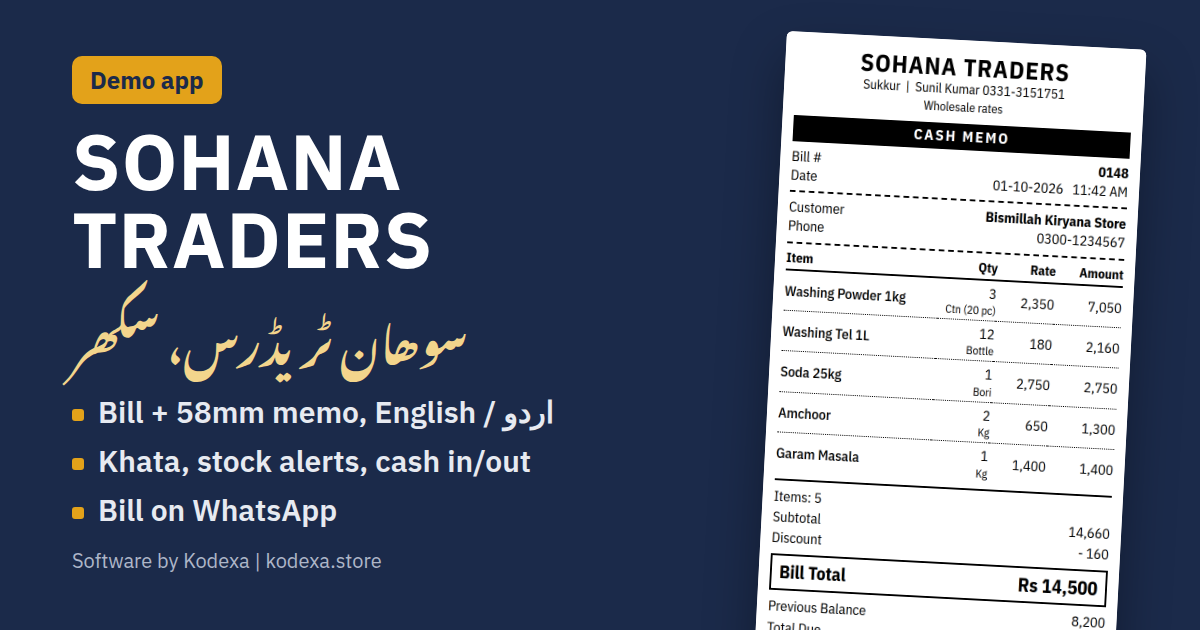
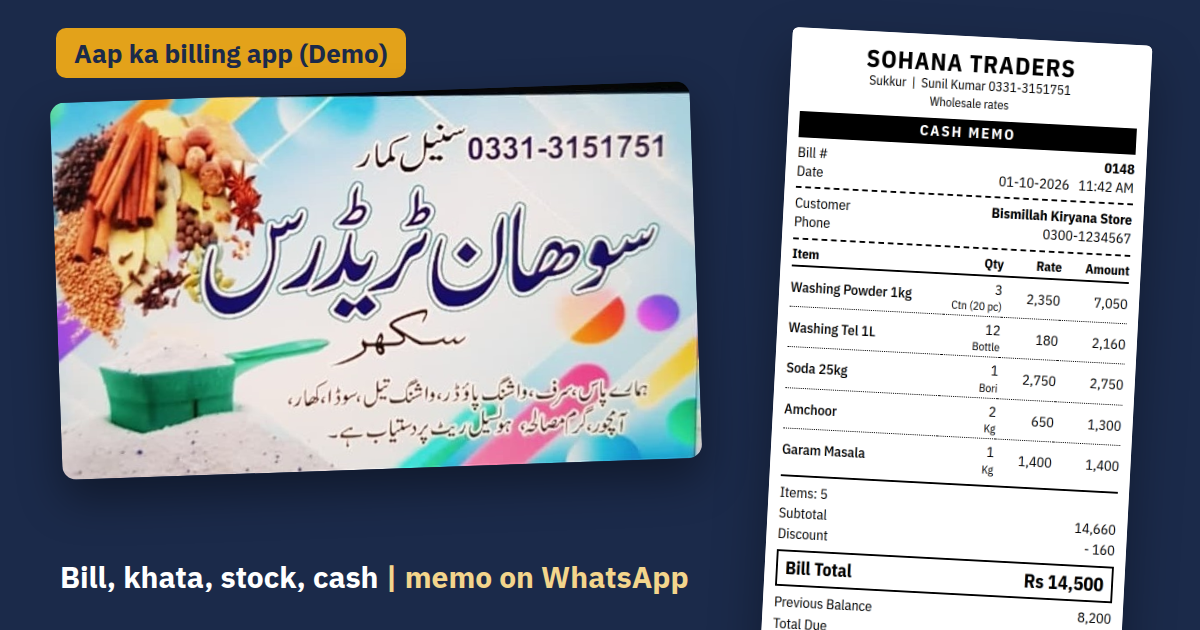
Use the client's visiting card in the link preview
The card version (B) replaces the text-only preview, which stays as
design/og/og-text.html.

Claude-Session: https://claude.ai/code/session_01KFqMtuz5jCqpedNDVma3um

diff --git a/design/og/og.html b/design/og/og.html
@@ -4,38 +4,26 @@
 <meta charset="utf-8">
 <title>Sohana POS preview</title>
 <style>
-  /* Link preview for WhatsApp / Facebook: 1200x630. Key content kept in the
-     middle 630px square too, because small WhatsApp previews crop to a square. */
-  @font-face { font-family: Plex; font-weight: 400; src: url(../../assets/fonts/plex-sans-400.ttf); }
+  /* Link preview, 1200x630: the client's own visiting card as the hero, memo beside it.
+     The earlier text-only version is og-text.html. */
   @font-face { font-family: Plex; font-weight: 600; src: url(../../assets/fonts/plex-sans-600.ttf); }
   @font-face { font-family: Plex; font-weight: 700; src: url(../../assets/fonts/plex-sans-700.ttf); }
-  @font-face { font-family: Urdu; font-weight: 700; src: url(../../assets/fonts/nastaliq-700.ttf); }
-  :root { --navy: #1B2A4A; --turmeric: #E3A21A; --paper: #F5F2EA; }
+  :root { --navy: #1B2A4A; --turmeric: #E3A21A; }
   * { margin: 0; box-sizing: border-box; }
   body { width: 1200px; height: 630px; background: var(--navy); font-family: Plex, sans-serif; color: #fff; overflow: hidden; position: relative; }
-  .left { position: absolute; left: 72px; top: 0; bottom: 0; width: 600px; display: flex; flex-direction: column; justify-content: center; gap: 18px; }
-  .chip { align-self: flex-start; background: var(--turmeric); color: var(--navy); font-weight: 700; font-size: 24px; padding: 8px 18px; border-radius: 10px; }
-  h1 { font-size: 78px; line-height: 1; font-weight: 700; letter-spacing: 1px; }
-  .ur { font-family: Urdu; font-size: 46px; line-height: 1.7; color: #F3D58C; direction: rtl; align-self: flex-start; }
-  ul { list-style: none; padding: 0; display: grid; gap: 10px; font-size: 30px; font-weight: 600; color: #E7EAF1; }
-  li::before { content: ""; display: inline-block; width: 12px; height: 12px; background: var(--turmeric); border-radius: 3px; margin-right: 14px; vertical-align: middle; }
-  .by { font-size: 20px; color: #AEB6C8; }
-  .memo { position: absolute; right: 70px; top: 40px; width: 360px; transform: rotate(3deg); box-shadow: 0 24px 50px rgba(0,0,0,.35); border-radius: 6px; overflow: hidden; height: 640px; background: #fff; }
+  .card { position: absolute; left: 56px; top: 92px; width: 640px; border-radius: 14px; overflow: hidden; box-shadow: 0 20px 44px rgba(0,0,0,.4); transform: rotate(-2deg); }
+  .card img { width: 100%; display: block; }
+  .chip { position: absolute; left: 56px; top: 28px; background: var(--turmeric); color: var(--navy); font-weight: 700; font-size: 26px; padding: 8px 18px; border-radius: 10px; }
+  .line { position: absolute; left: 60px; bottom: 34px; width: 660px; font-size: 30px; font-weight: 700; line-height: 1.3; }
+  .line span { color: #F3D58C; }
+  .memo { position: absolute; right: 64px; top: 36px; width: 360px; height: 640px; transform: rotate(3deg); box-shadow: 0 24px 50px rgba(0,0,0,.35); border-radius: 6px; overflow: hidden; background: #fff; }
   .memo img { width: 100%; display: block; }
 </style>
 </head>
 <body>
-  <div class="left">
-    <div class="chip">Demo app</div>
-    <h1>SOHANA TRADERS</h1>
-    <div class="ur">سوھان ٹریڈرس، سکھر</div>
-    <ul>
-      <li>Bill + 58mm memo, English / اردو</li>
-      <li>Khata, stock alerts, cash in/out</li>
-      <li>Bill on WhatsApp</li>
-    </ul>
-    <div class="by">Software by Kodexa | kodexa.store</div>
-  </div>
+  <div class="chip">Aap ka billing app (Demo)</div>
+  <div class="card"><img src="card.jpg" alt=""></div>
+  <div class="line">Bill, khata, stock, cash <span>| memo on WhatsApp</span></div>
   <div class="memo"><img src="../memo/out/memo-en-whatsapp.png" alt=""></div>
 </body>
 </html>

diff --git a/design/og/og-text.html b/design/og/og-text.html
@@ -1,0 +1,41 @@
+<!doctype html>
+<html>
+<head>
+<meta charset="utf-8">
+<title>Sohana POS preview</title>
+<style>
+  /* Link preview for WhatsApp / Facebook: 1200x630. Key content kept in the
+     middle 630px square too, because small WhatsApp previews crop to a square. */
+  @font-face { font-family: Plex; font-weight: 400; src: url(../../assets/fonts/plex-sans-400.ttf); }
+  @font-face { font-family: Plex; font-weight: 600; src: url(../../assets/fonts/plex-sans-600.ttf); }
+  @font-face { font-family: Plex; font-weight: 700; src: url(../../assets/fonts/plex-sans-700.ttf); }
+  @font-face { font-family: Urdu; font-weight: 700; src: url(../../assets/fonts/nastaliq-700.ttf); }
+  :root { --navy: #1B2A4A; --turmeric: #E3A21A; --paper: #F5F2EA; }
+  * { margin: 0; box-sizing: border-box; }
+  body { width: 1200px; height: 630px; background: var(--navy); font-family: Plex, sans-serif; color: #fff; overflow: hidden; position: relative; }
+  .left { position: absolute; left: 72px; top: 0; bottom: 0; width: 600px; display: flex; flex-direction: column; justify-content: center; gap: 18px; }
+  .chip { align-self: flex-start; background: var(--turmeric); color: var(--navy); font-weight: 700; font-size: 24px; padding: 8px 18px; border-radius: 10px; }
+  h1 { font-size: 78px; line-height: 1; font-weight: 700; letter-spacing: 1px; }
+  .ur { font-family: Urdu; font-size: 46px; line-height: 1.7; color: #F3D58C; direction: rtl; align-self: flex-start; }
+  ul { list-style: none; padding: 0; display: grid; gap: 10px; font-size: 30px; font-weight: 600; color: #E7EAF1; }
+  li::before { content: ""; display: inline-block; width: 12px; height: 12px; background: var(--turmeric); border-radius: 3px; margin-right: 14px; vertical-align: middle; }
+  .by { font-size: 20px; color: #AEB6C8; }
+  .memo { position: absolute; right: 70px; top: 40px; width: 360px; transform: rotate(3deg); box-shadow: 0 24px 50px rgba(0,0,0,.35); border-radius: 6px; overflow: hidden; height: 640px; background: #fff; }
+  .memo img { width: 100%; display: block; }
+</style>
+</head>
+<body>
+  <div class="left">
+    <div class="chip">Demo app</div>
+    <h1>SOHANA TRADERS</h1>
+    <div class="ur">سوھان ٹریڈرس، سکھر</div>
+    <ul>
+      <li>Bill + 58mm memo, English / اردو</li>
+      <li>Khata, stock alerts, cash in/out</li>
+      <li>Bill on WhatsApp</li>
+    </ul>
+    <div class="by">Software by Kodexa | kodexa.store</div>
+  </div>
+  <div class="memo"><img src="../memo/out/memo-en-whatsapp.png" alt=""></div>
+</body>
+</html>

diff --git a/.claude/kodexa-learnings.md b/.claude/kodexa-learnings.md
@@ -22,6 +22,7 @@ for the rules.
 | L-004 | 2026-10-01 | gotcha | lucide-react-native root import adds ~2 MB on web; Expo tree shaking breaks the SQLite worker | type: mobile-app | logged |
 | L-005 | 2026-10-01 | gotcha | expo-router: stack screen to tab needs dismissTo, navigate stacks a second tabs navigator | type: mobile-app | logged |
 | L-007 | 2026-10-01 | gap | Every "recent X" list needs a "see all" screen with filters and paging | all | logged |
+| L-009 | 2026-10-02 | choice | Client link previews lead with the client's own branding (his visiting card), product proof beside it | type: mobile-app | logged |
 | L-006 | 2026-10-01 | choice | Client demo = web build of the Expo app, in-memory DB, free Vercel link | type: mobile-app | logged |
 
 ## Entries
@@ -88,4 +89,12 @@ for the rules.
 - **Lesson:** Seeded "today" activity must sit inside business hours and before now; when the day has not started yet, seed none.
 - **Scope:** all
 - **Target in skill:** section 5, realistic data
+- **Status:** logged
+
+### L-009 · 2026-10-02 · strong · choice
+- **Said / saw:** "this is the picture of card, would it be nicer to add this picture instad of memo"; offered A (text + memo) and B (his visiting card + memo); "ok merge B with main"
+- **Context:** WhatsApp link preview (og:image) for a client demo
+- **Lesson:** For a demo sent to one client, the preview image leads with something he already owns (his visiting card, shop sign, logo) so he sees at a glance it was made for him, with one piece of product proof (the memo) beside it. Keep text to a short label and one line.
+- **Scope:** type: mobile-app (client demos)
+- **Target in skill:** references/types/mobile-app.md, "Client demo" section
 - **Status:** logged
